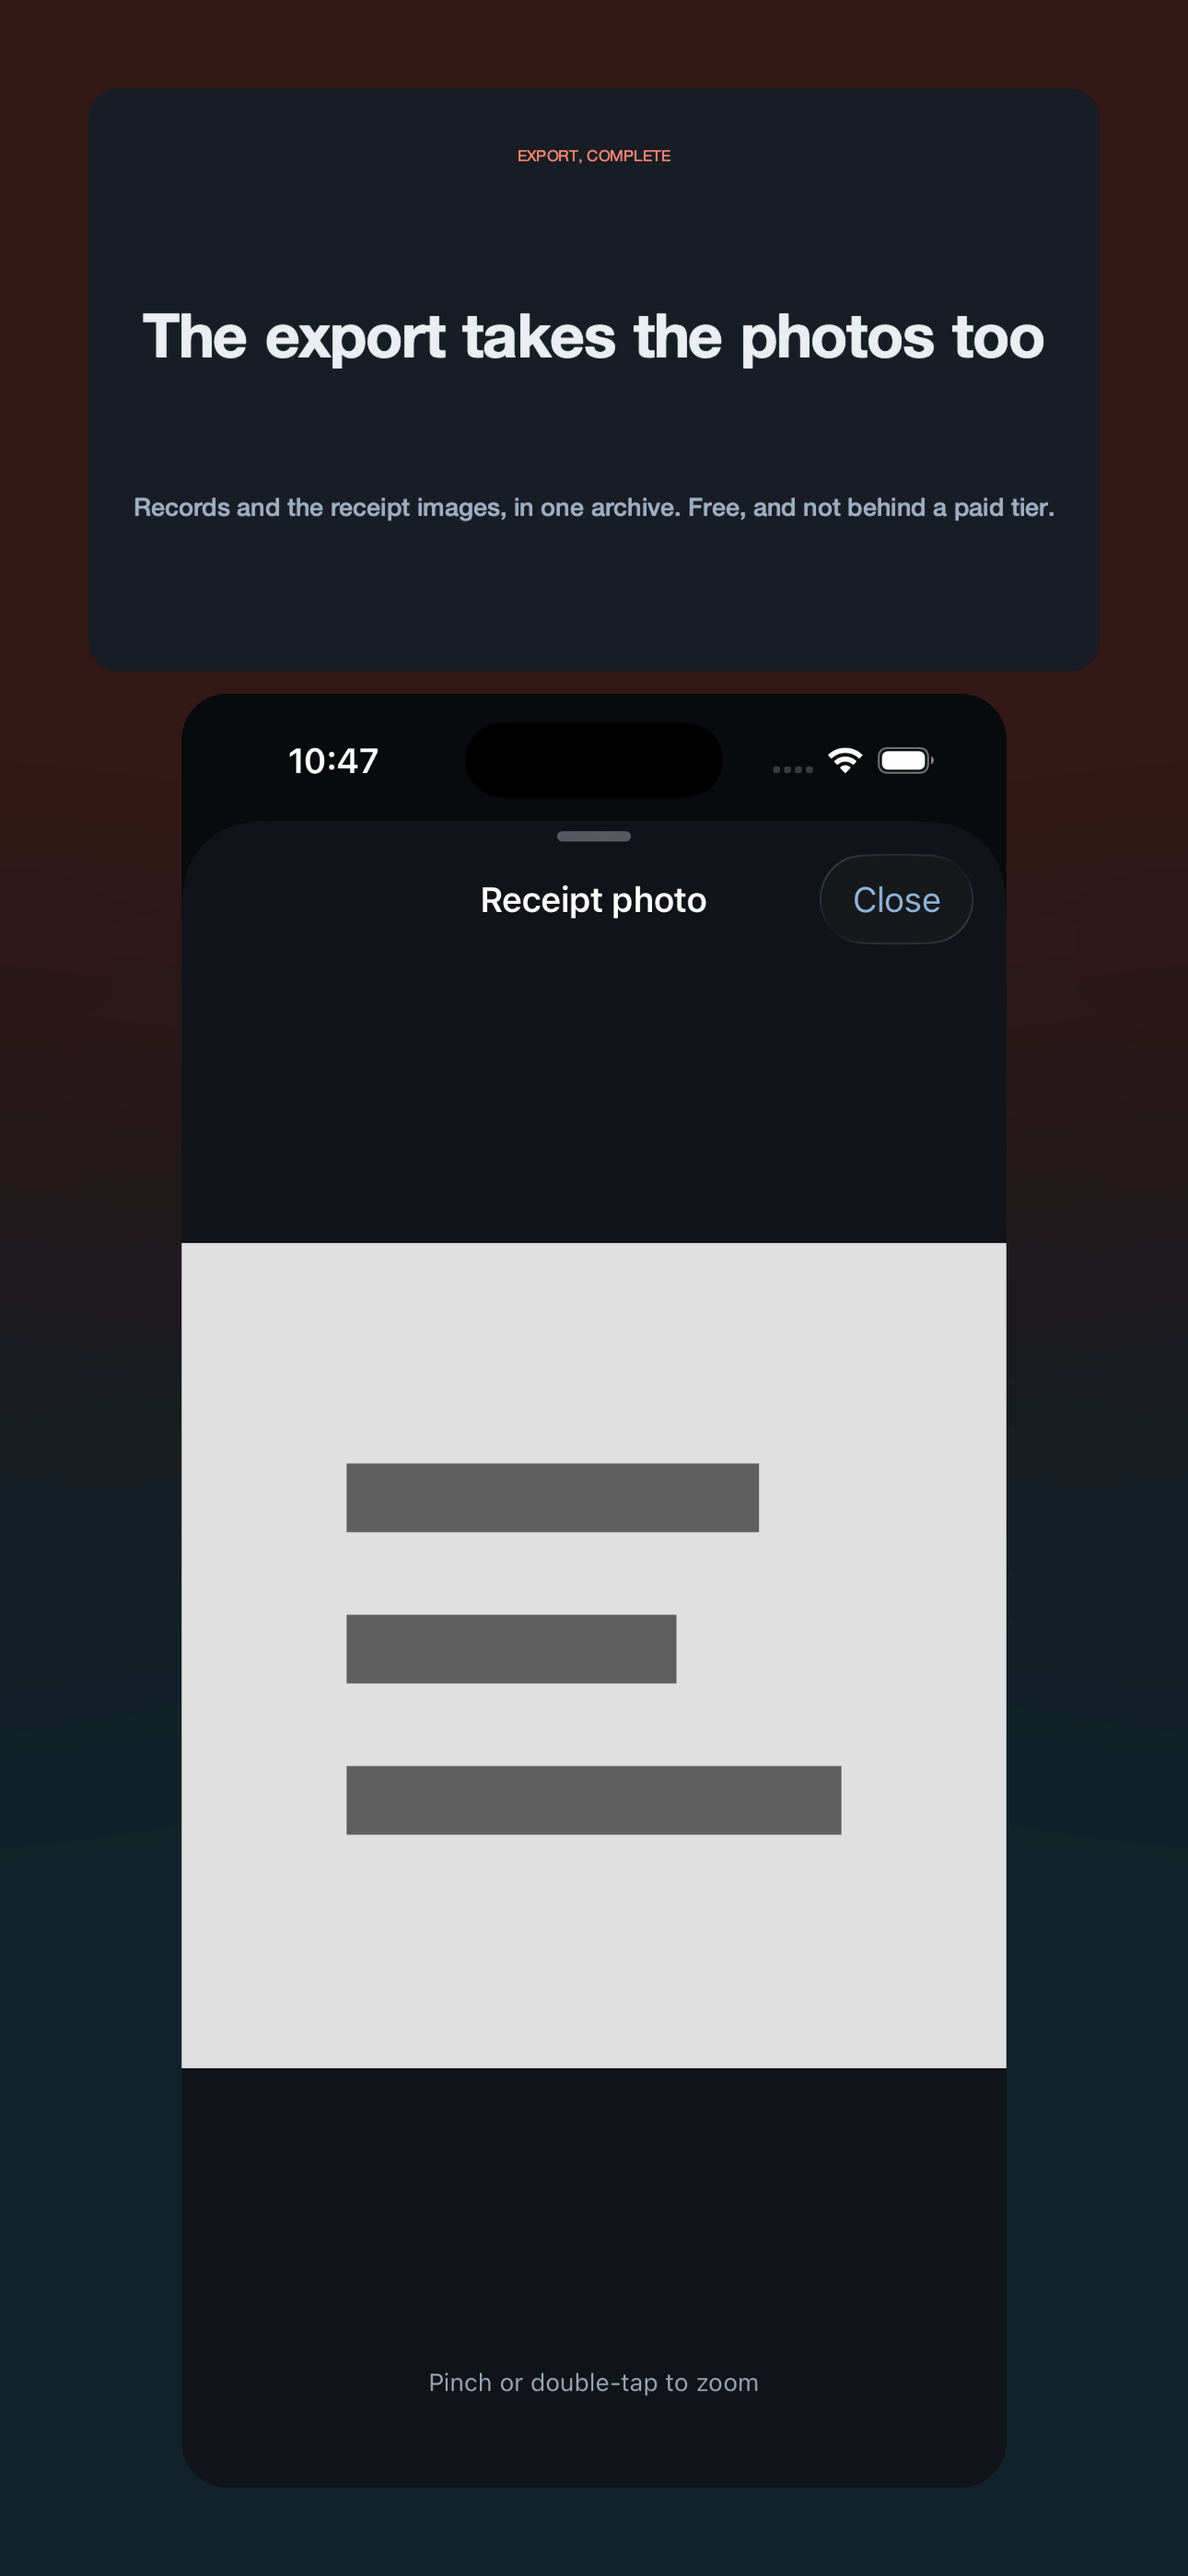
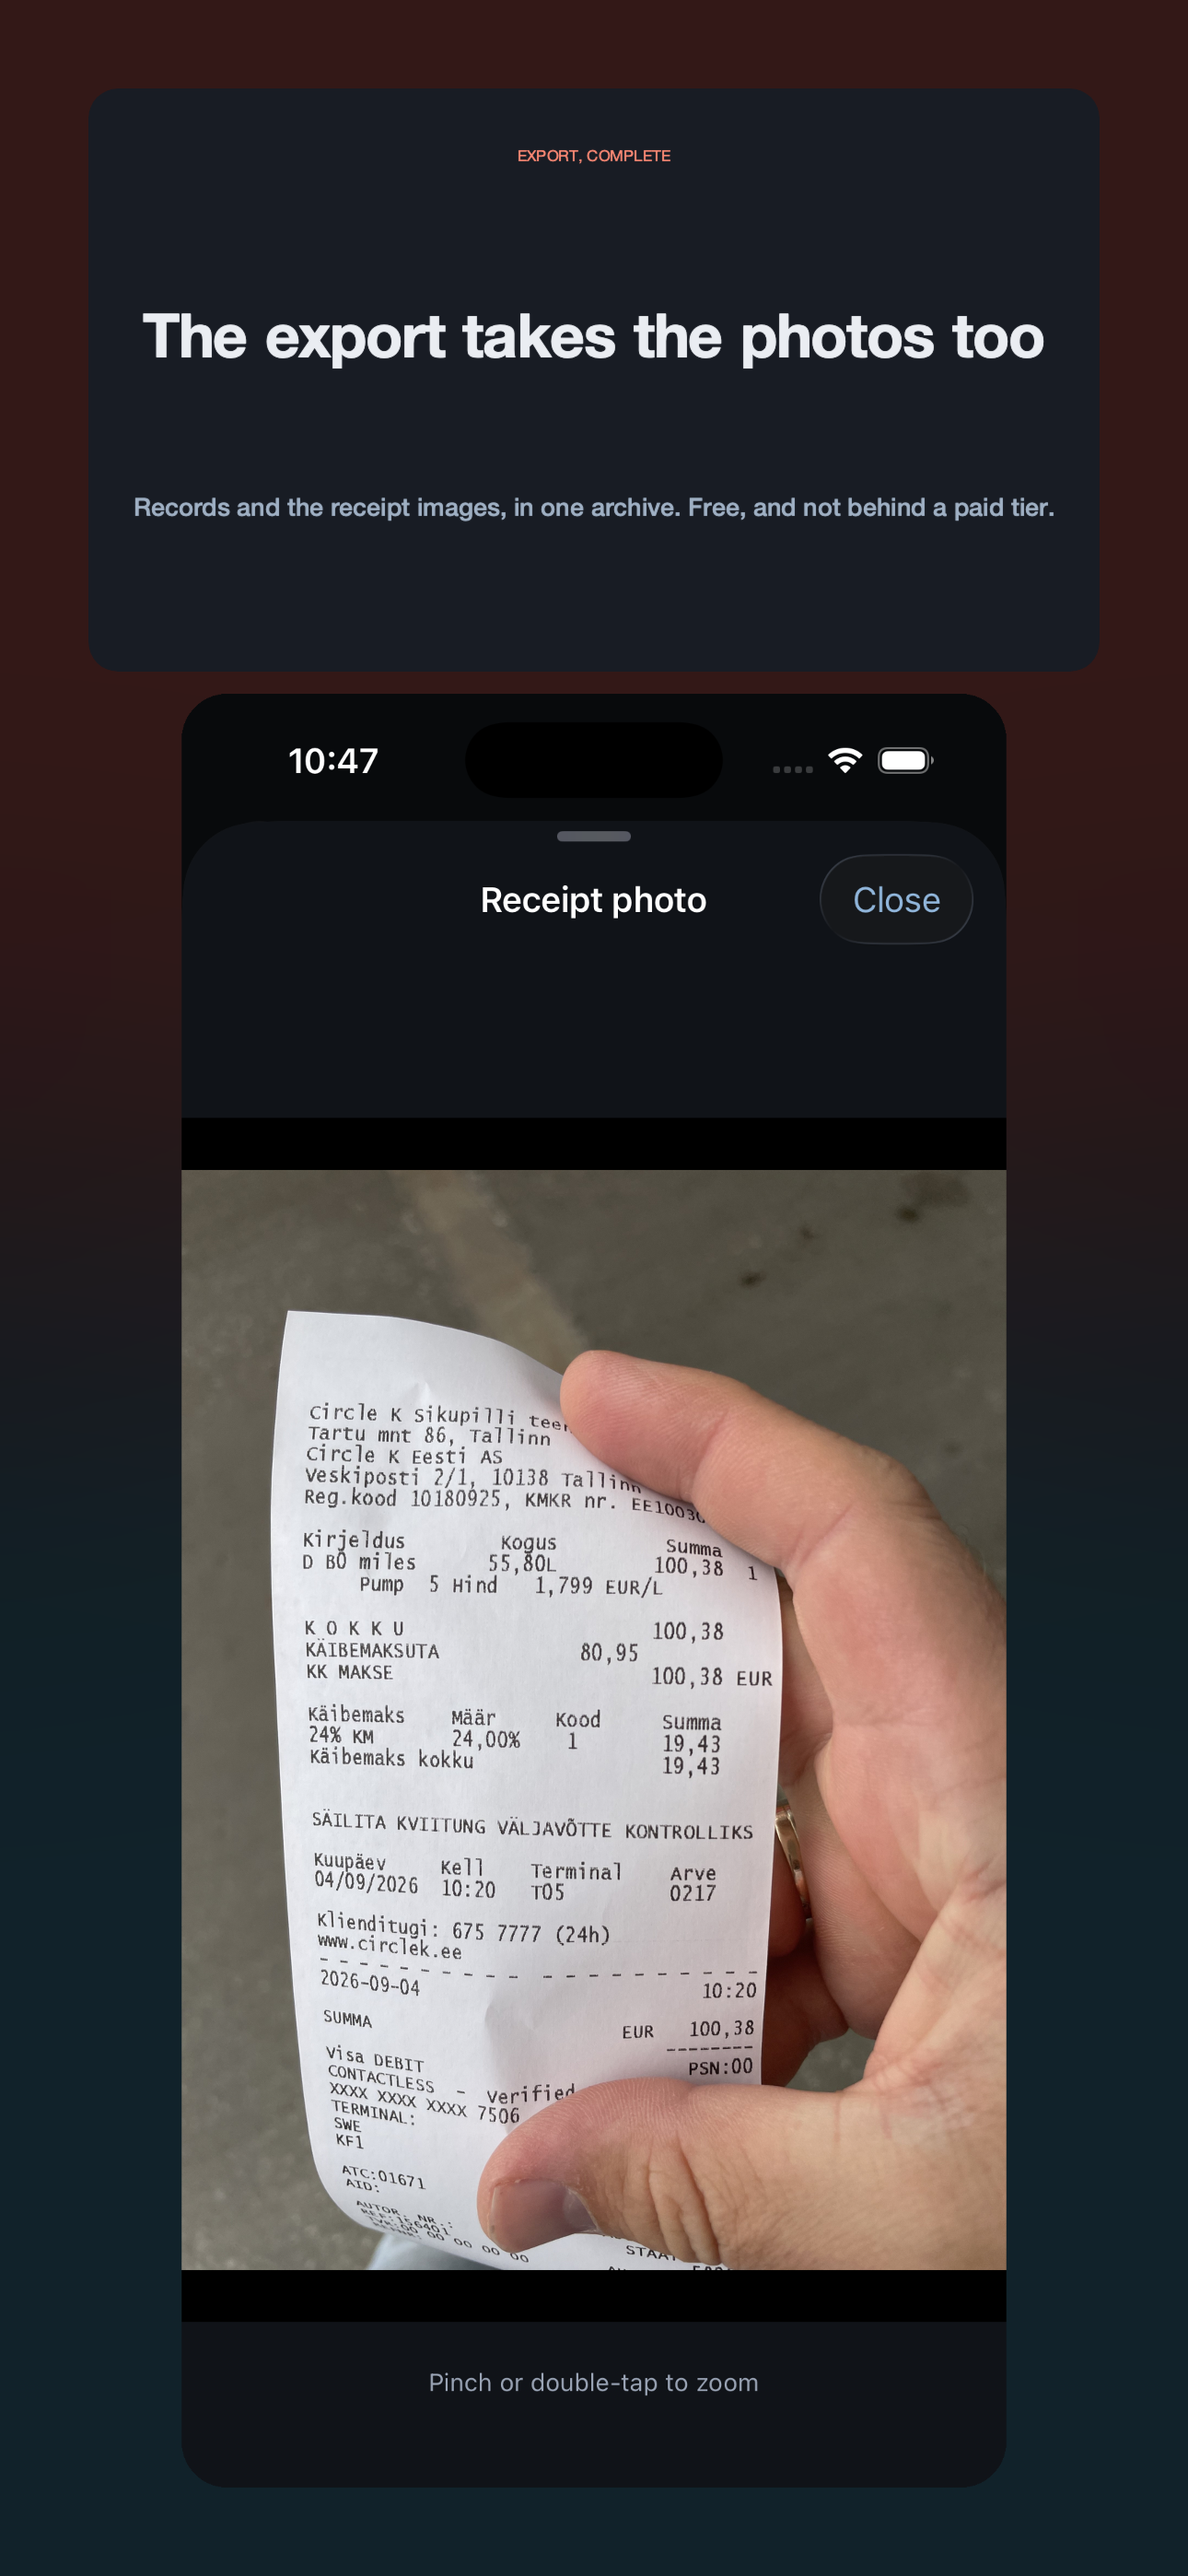
Panel 02-en shows a real corpus receipt, not the seeded mock
The committed attachment-viewer screenshot holds a grey placeholder, because it
is captured from a seeded build. That is honest as a UI record and useless as a
panel whose whole claim is that the photo comes with you. build.py now composites
fixture receipt-046 (Circle K Sikupilli, EUR) into the viewer's content area, so
the chrome, title and hint are still the shipping screen's own pixels and only
the photo is substituted.

Layout 98 (weight sits low, which is what a full-width photo does); compliance 86
on the same background-plainness warning the shared gradient earns everywhere.

Changed region(s): [[0.155, 0.4356, 0.8682, 0.9024]]

diff --git a/design/store/build.py b/design/store/build.py
@@ -17,7 +17,7 @@ OUT = os.path.join(HERE, "out")
 CACHE = os.path.join(HERE, ".cache")
 
 
-def rounded(stem):
+def rounded(stem, src=None):
     """A rounded-corner RGBA copy of a committed screenshot.
 
     The device layer's own `radius` clips the LAYER BOX, and `fit: contain`
@@ -27,8 +27,8 @@ def rounded(stem):
     """
     from PIL import Image, ImageDraw
     os.makedirs(CACHE, exist_ok=True)
-    src = os.path.join(HERE, "..", "screenshots", stem + ".png")
-    dst = os.path.join(CACHE, stem + "-rounded.png")
+    src = src or os.path.join(HERE, "..", "screenshots", stem + ".png")
+    dst = os.path.join(CACHE, os.path.basename(src)[:-4] + "-rounded.png")
     if os.path.exists(dst) and os.path.getmtime(dst) >= os.path.getmtime(src):
         return dst
     im = Image.open(src).convert("RGBA")
@@ -36,6 +36,37 @@ def rounded(stem):
     mask = Image.new("L", im.size, 0)
     ImageDraw.Draw(mask).rounded_rectangle([0, 0, im.width - 1, im.height - 1], radius=r, fill=255)
     im.putalpha(mask)
+    im.save(dst)
+    return dst
+
+
+RECEIPT = "Spike/ReceiptSpike/fixtures/receipts/receipt-046-circlek-sikupilli-pump5-db0-5580l-ee.jpg"
+
+
+def viewer_with_real_photo(stem="RV.9-attachment-viewer"):
+    """The attachment viewer showing a REAL corpus receipt, not the test mock.
+
+    The committed screenshot is captured from a seeded build, so its viewer holds
+    a grey placeholder - honest as a UI record, useless as a store panel about
+    keeping the photo. This drops a real fixture receipt into the same image
+    region the viewer draws into, so the chrome, the title and the hint are still
+    the shipping screen's own pixels.
+    """
+    from PIL import Image
+    os.makedirs(CACHE, exist_ok=True)
+    src = os.path.join(HERE, "..", "screenshots", stem + ".png")
+    photo = os.path.join(HERE, "..", "..", RECEIPT)
+    dst = os.path.join(CACHE, stem + "-real.png")
+    if os.path.exists(dst) and os.path.getmtime(dst) >= max(os.path.getmtime(src),
+                                                            os.path.getmtime(photo)):
+        return dst
+    im = Image.open(src).convert("RGB")
+    top, bottom = 620, 2380          # the viewer's content area, between the nav bar and the hint
+    box_w, box_h = im.width, bottom - top
+    im.paste((0, 0, 0), [0, top, box_w, bottom])
+    ph = Image.open(photo).convert("RGB")
+    ph.thumbnail((box_w, box_h), Image.LANCZOS)
+    im.paste(ph, ((box_w - ph.width) // 2, top + (box_h - ph.height) // 2))
     im.save(dst)
     return dst
 
@@ -166,6 +197,13 @@ layers:
 """
 
 
+def source_for(shot):
+    """The image a panel actually draws - a real receipt where the shot is a mock."""
+    if shot == "RV.9-attachment-viewer":
+        return viewer_with_real_photo(shot)
+    return None
+
+
 def write_specs():
     paths = []
     for pid, shot_en, shot_ru, en, ru in PANELS:
@@ -174,7 +212,7 @@ def write_specs():
             path = os.path.join(HERE, f"panel-{pid}-{lang}.yaml")
             with open(path, "w", encoding="utf-8") as f:
                 f.write(SPEC.format(pid=pid, lang=lang, kicker=kicker, headline=headline,
-                                    caption=caption, shot_path=rounded(shot),
+                                    caption=caption, shot_path=rounded(shot, source_for(shot)),
                                     bg_path=shared_background()))
             paths.append(path)
     return paths
